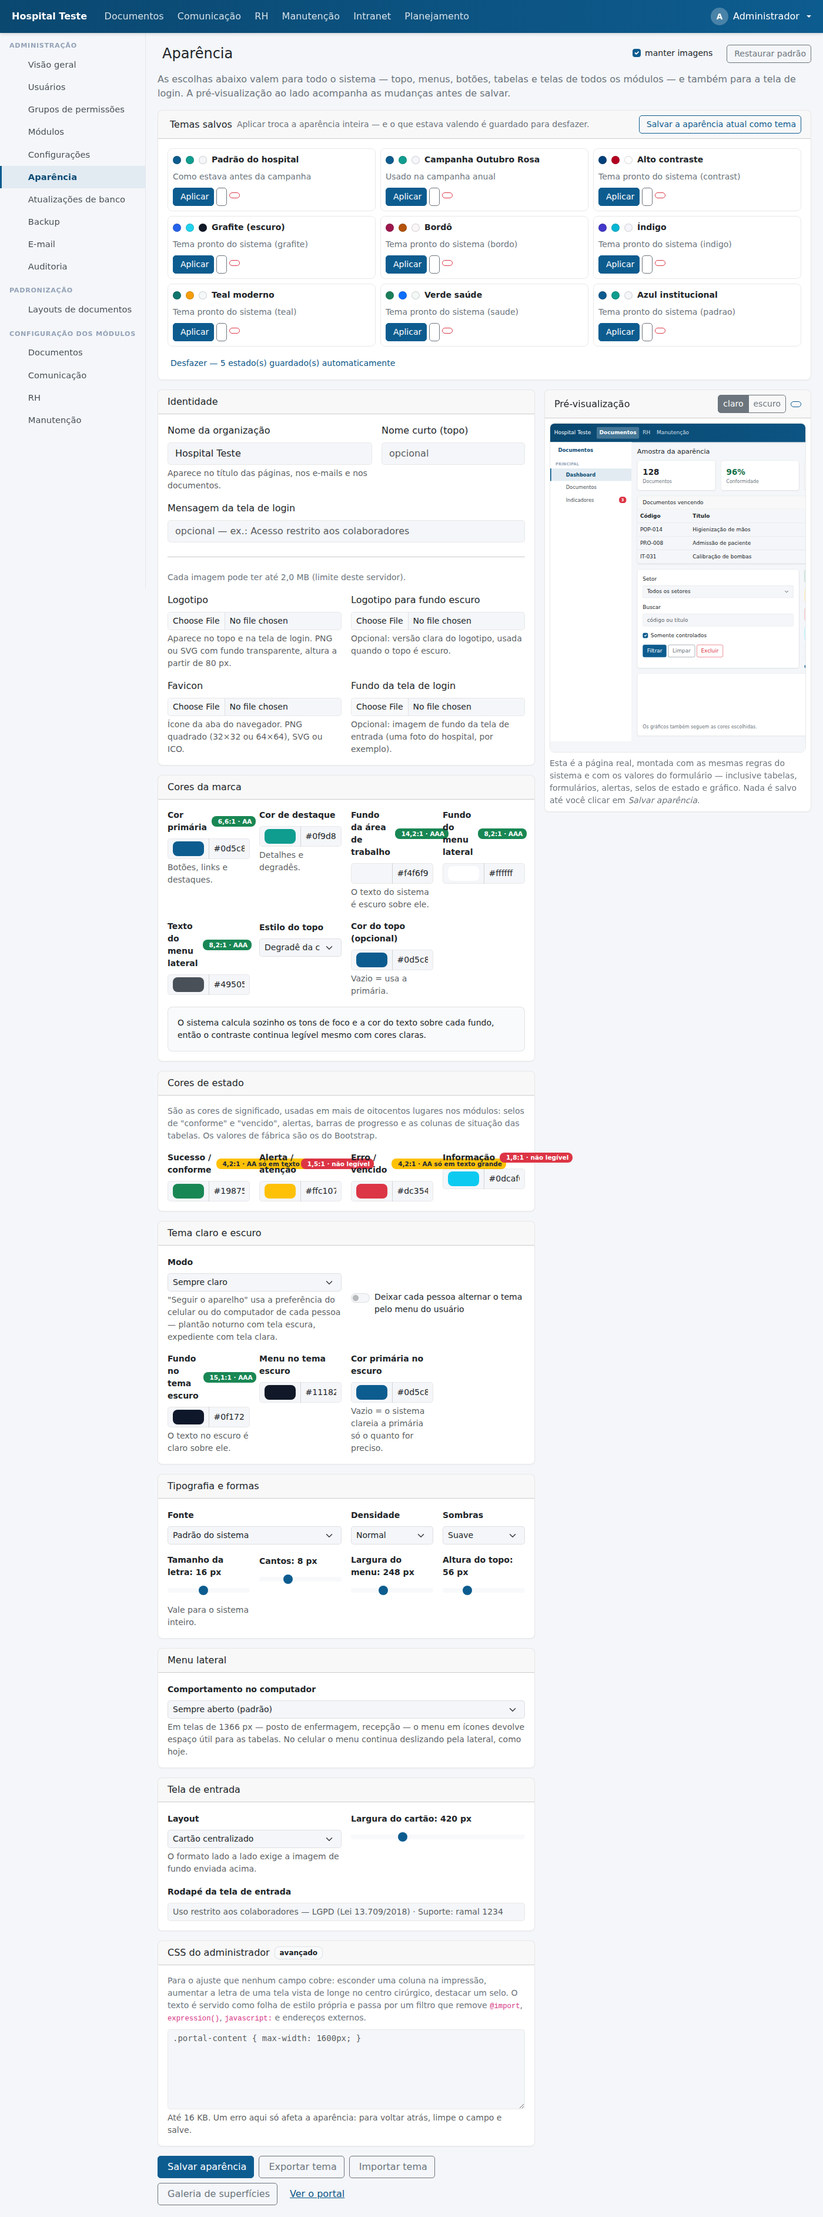
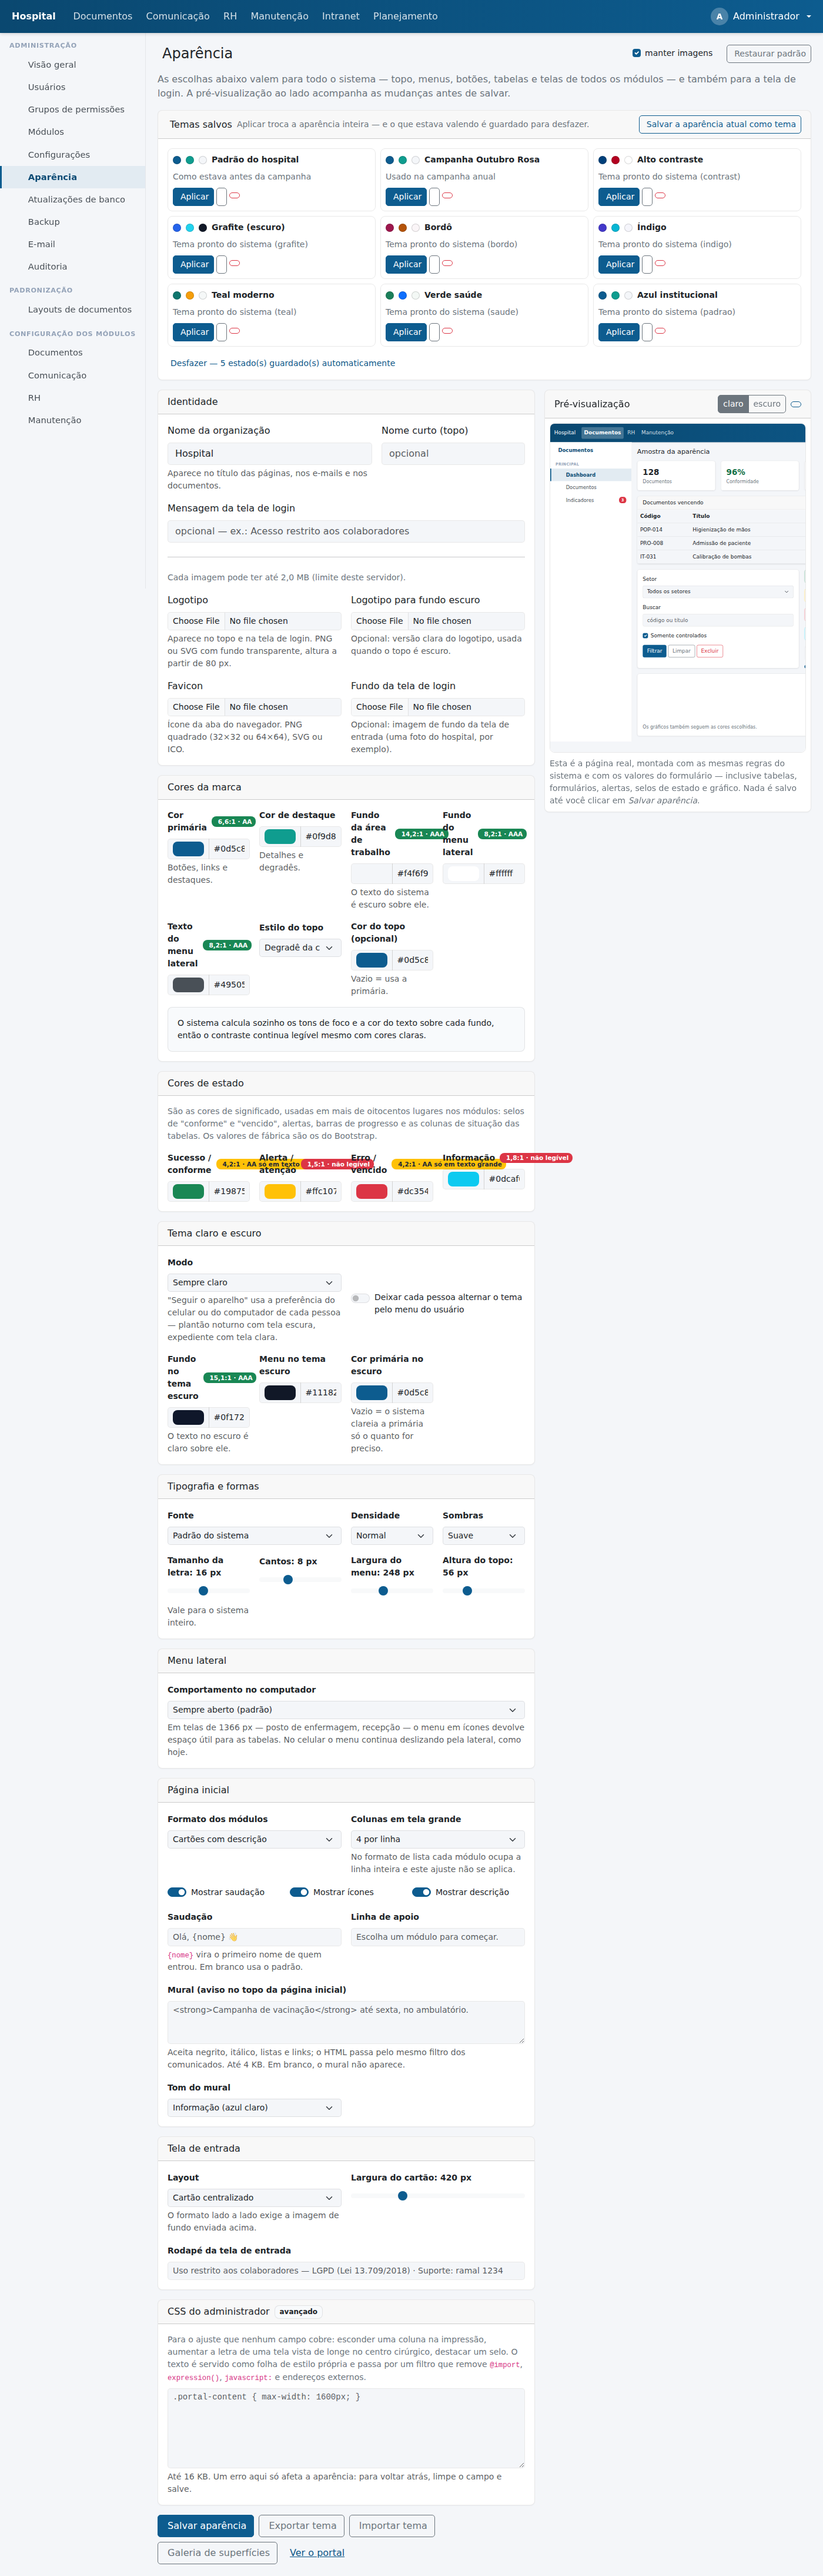
Página inicial personalizável (Aparência > Página inicial)
A tela que abre depois do login era a única do sistema sem nenhum ajuste:
saudação fixa e grade de cartões fixa, a mesma para a instalação de três
módulos e para a de quinze. Agora tem formato (cartões, lista compacta ou
mosaico de ícones), número de colunas, saudação e linha de apoio próprias
com {nome}, chaves para esconder ícones, descrição e saudação, e um mural
de aviso no topo com tom escolhido.

O mural aceita HTML — um aviso de campanha de vacinação sem negrito nem
link não é um aviso — e passa pelo mesmo HtmlSanitizer dos comunicados do
RH. Conferido na prática: <script> e onerror saem, <strong> e <a href>
ficam.

Duas coisas que o teste pegou e que valem registro:

- O seletor de colunas reabria sempre em "2 por linha". O PHP converte
  chave numérica de array em int, então o === contra o valor salvo (string)
  nunca casava e nenhuma option saía marcada — o valor gravava certo, só a
  tela mentia. Os outros seletores da aparência usam chave textual e não
  têm o problema.
- O teste visual acusou 100% de diferença sem nada ter mudado: um flash
  pendente ("Configurações salvas") era consumido pela primeira cena e
  somava uma barra de aviso de 74 px só à referência. O teste agora abre
  uma página neutra antes de fotografar; três execuções seguidas dão
  0,00%.

Verificado: os três formatos e os quatro valores de coluna fecham o ciclo
salvar → reabrir → renderizar; as três chaves de esconder funcionam.
[…]

Changed region(s): [[0.0, 0.0, 0.9829, 0.9315], [0.1843, 0.9626, 0.5221, 0.9936], [0.6757, 0.3416, 0.86, 0.3726]]

diff --git a/assets/core/app.css b/assets/core/app.css
@@ -402,7 +402,23 @@ body.portal-bare:not(.is-split) .portal-bare-footer { color: rgba(255, 255, 255,
     display: flex; align-items: center; justify-content: center;
     font-size: 1.5rem; color: var(--portal-on-primary);
     background: linear-gradient(135deg, var(--portal-primary), var(--portal-accent));
+    flex: 0 0 auto;
 }
+
+/* Formatos da página inicial (Administração > Aparência > Página inicial).
+   A lista troca o cartão alto por uma linha; o mosaico vira ícone grande com
+   o nome embaixo — útil em instalação com muitos módulos ou em tela tocável,
+   onde a grade de cartões obriga a rolar. */
+.portal-home-lista .module-icon { width: 38px; height: 38px; font-size: 1.1rem; }
+.portal-home-lista:hover { transform: none; }
+
+.portal-home-mosaico .module-icon { width: 60px; height: 60px; font-size: 1.75rem; }
+.portal-home-mosaico .card-body { min-height: 128px; }
+
+/* Mural: o HTML vem do administrador, então as margens do último parágrafo
+   são zeradas para o aviso não ganhar um vão embaixo. */
+.portal-home-mural > :last-child { margin-bottom: 0; }
+.portal-home-mural img { max-width: 100%; height: auto; }
 
 /* ============================================================
    Bootstrap seguindo a identidade visual

diff --git a/core/controllers/auth.php b/core/controllers/auth.php
@@ -420,41 +420,96 @@ function core_auth_render_portal(): void
 {
     $user    = Auth::user();
     $modules = Modules::forUser((int) $user['id']);
+    $b       = Core\Branding::all();
+
+    $primeiro = explode(' ', trim((string) $user['name']))[0];
+    // {nome} no texto do administrador. O padrão continua sendo o de antes,
+    // para quem nunca abrir a tela de Aparência.
+    $titulo = $b['home_title'] !== ''
+        ? str_replace(['{nome}', '{primeiro_nome}'], [$user['name'], $primeiro], $b['home_title'])
+        : 'Olá, ' . $primeiro . ' 👋';
+    $subtitulo = $b['home_subtitle'] !== '' ? $b['home_subtitle'] : 'Escolha um módulo para começar.';
+
+    $layout   = $b['home_layout'];
+    $colunas  = (int) $b['home_columns'];
+    $comDesc  = $b['home_show_desc'] === '1';
+    $comIcone = $b['home_show_icons'] === '1';
+    // 12 / colunas fecha certo porque HOME_COLUMNS só aceita divisores de 12.
+    $colClass = $layout === 'lista'
+        ? 'col-12'
+        : 'col-12 col-sm-6 col-lg-' . (int) (12 / max(1, $colunas));
+
+    $tons = [
+        'info'    => 'alert-info',    'primary' => 'alert-primary',
+        'success' => 'alert-success', 'warning' => 'alert-warning',
+        'neutro'  => 'alert-secondary',
+    ];
+
+    // Um item do portal (módulo ou link externo) nos três formatos.
+    $cartao = static function (string $href, string $icone, string $nome, string $desc,
+                               bool $externo = false) use ($layout, $comDesc, $comIcone): string {
+        $alvo = $externo ? ' target="_blank" rel="noopener"' : '';
+        $ico  = $comIcone
+            ? '<div class="module-icon"><i class="bi ' . core_e($icone) . '"></i></div>' : '';
+        $fora = $externo ? ' <i class="bi bi-box-arrow-up-right small"></i>' : '';
+
+        if ($layout === 'mosaico') {
+            return '<a class="card portal-module-card portal-home-mosaico h-100" href="' . $href . '"' . $alvo . '>'
+                 . '<div class="card-body text-center d-flex flex-column gap-2 align-items-center justify-content-center">'
+                 . $ico . '<div class="fw-semibold text-body small">' . core_e($nome) . $fora . '</div>'
+                 . '</div></a>';
+        }
+        if ($layout === 'lista') {
+            return '<a class="card portal-module-card portal-home-lista" href="' . $href . '"' . $alvo . '>'
+                 . '<div class="card-body d-flex align-items-center gap-3 py-2">'
+                 . $ico
+                 . '<div class="flex-grow-1 min-w-0">'
+                 . '<div class="fw-semibold text-body">' . core_e($nome) . $fora . '</div>'
+                 . ($comDesc && $desc !== '' ? '<div class="small text-muted text-truncate">' . core_e($desc) . '</div>' : '')
+                 . '</div><i class="bi bi-chevron-right text-muted small"></i>'
+                 . '</div></a>';
+        }
+        return '<a class="card portal-module-card h-100" href="' . $href . '"' . $alvo . '>'
+             . '<div class="card-body d-flex flex-column gap-3">'
+             . $ico
+             . '<div><div class="fw-semibold text-body">' . core_e($nome) . $fora . '</div>'
+             . ($comDesc && $desc !== '' ? '<div class="small text-muted">' . core_e($desc) . '</div>' : '')
+             . '</div></div></a>';
+    };
+
     ob_start(); ?>
-    <div class="mb-4">
-        <h1 class="h4 mb-1">Olá, <?= core_e(explode(' ', (string) $user['name'])[0]) ?> 👋</h1>
-        <p class="text-muted mb-0">Escolha um módulo para começar.</p>
-    </div>
+    <?php if ($b['home_greeting'] === '1'): ?>
+        <div class="mb-4">
+            <h1 class="h4 mb-1"><?= core_e($titulo) ?></h1>
+            <p class="text-muted mb-0"><?= core_e($subtitulo) ?></p>
+        </div>
+    <?php endif; ?>
+
+    <?php if (trim($b['home_message']) !== ''): ?>
+        <?php /* Já sanitizado na gravação (Branding::normalizeField). */ ?>
+        <div class="alert <?= $tons[$b['home_message_tone']] ?? 'alert-info' ?> portal-home-mural">
+            <?= $b['home_message'] ?>
+        </div>
+    <?php endif; ?>
+
     <?php if (!$modules): ?>
         <div class="alert alert-warning">
             Você ainda não tem acesso a nenhum módulo. Solicite a liberação ao administrador da plataforma.
         </div>
     <?php endif; ?>
-    <div class="row g-3">
+
+    <div class="row g-3 portal-home portal-home-<?= core_e($layout) ?>">
         <?php foreach ($modules as $slug => $m): ?>
-            <div class="col-12 col-sm-6 col-lg-4 col-xl-3">
-                <a class="card portal-module-card h-100" href="<?= core_module_url($slug) ?>">
-                    <div class="card-body d-flex flex-column gap-3">
-                        <div class="module-icon"><i class="bi <?= core_e($m['icon'] ?? 'bi-app') ?>"></i></div>
-                        <div>
-                            <div class="fw-semibold text-body"><?= core_e($m['name']) ?></div>
-                            <div class="small text-muted"><?= core_e($m['description'] ?? '') ?></div>
-                        </div>
-                    </div>
-                </a>
+            <div class="<?= $colClass ?>">
+                <?= $cartao(core_module_url($slug), (string) ($m['icon'] ?? 'bi-app'),
+                            (string) $m['name'], (string) ($m['description'] ?? '')) ?>
             </div>
         <?php endforeach; ?>
         <?php if (core_config('moodle.enabled')): ?>
-            <div class="col-12 col-sm-6 col-lg-4 col-xl-3">
-                <a class="card portal-module-card h-100" href="<?= core_e(core_config('moodle.url')) ?>" target="_blank" rel="noopener">
-                    <div class="card-body d-flex flex-column gap-3">
-                        <div class="module-icon"><i class="bi bi-mortarboard"></i></div>
-                        <div>
-                            <div class="fw-semibold text-body"><?= core_e(core_config('moodle.link_label', 'Moodle')) ?> <i class="bi bi-box-arrow-up-right small"></i></div>
-                            <div class="small text-muted">Plataforma de ensino a distância.</div>
-                        </div>
-                    </div>
-                </a>
+            <div class="<?= $colClass ?>">
+                <?= $cartao(core_e((string) core_config('moodle.url')), 'bi-mortarboard',
+                            (string) core_config('moodle.link_label', 'Moodle'),
+                            'Plataforma de ensino a distância.', true) ?>
             </div>
         <?php endif; ?>
     </div>

diff --git a/core/controllers/admin_appearance.php b/core/controllers/admin_appearance.php
@@ -646,6 +646,85 @@ function core_admin_appearance(): string
                 </div>
 
                 <div class="card mb-3">
+                    <div class="card-header">Página inicial</div>
+                    <div class="card-body row g-3">
+                        <div class="col-12 col-md-6">
+                            <label class="form-label small fw-semibold">Formato dos módulos</label>
+                            <select class="form-select form-select-sm" name="home_layout" id="f_home_layout">
+                                <?php foreach (Branding::HOME_LAYOUTS as $k => $lbl): ?>
+                                    <option value="<?= core_e($k) ?>" <?= $b['home_layout'] === $k ? 'selected' : '' ?>><?= core_e($lbl) ?></option>
+                                <?php endforeach; ?>
+                            </select>
+                        </div>
+                        <div class="col-12 col-md-6">
+                            <label class="form-label small fw-semibold">Colunas em tela grande</label>
+                            <select class="form-select form-select-sm" name="home_columns" id="f_home_columns">
+                                <?php // (string) obrigatório: o PHP converte chave numérica de array
+                                      // em int, e o === contra o valor salvo (string) nunca casaria —
+                                      // o campo reabriria sempre na primeira opção.
+                                      foreach (Branding::HOME_COLUMNS as $k => $lbl): ?>
+                                    <option value="<?= core_e((string) $k) ?>" <?= $b['home_columns'] === (string) $k ? 'selected' : '' ?>><?= core_e($lbl) ?></option>
+                                <?php endforeach; ?>
+                            </select>
+                            <div class="form-text small">No formato de lista cada módulo ocupa a linha inteira e este ajuste não se aplica.</div>
+                        </div>
+
+                        <div class="col-12 col-md-4">
+                            <input type="hidden" name="home_greeting" value="0">
+                            <div class="form-check form-switch">
+                                <input class="form-check-input" type="checkbox" role="switch" name="home_greeting"
+                                       id="f_home_greeting" value="1" <?= $b['home_greeting'] === '1' ? 'checked' : '' ?>>
+                                <label class="form-check-label small" for="f_home_greeting">Mostrar saudação</label>
+                            </div>
+                        </div>
+                        <div class="col-12 col-md-4">
+                            <input type="hidden" name="home_show_icons" value="0">
+                            <div class="form-check form-switch">
+                                <input class="form-check-input" type="checkbox" role="switch" name="home_show_icons"
+                                       id="f_home_show_icons" value="1" <?= $b['home_show_icons'] === '1' ? 'checked' : '' ?>>
+                                <label class="form-check-label small" for="f_home_show_icons">Mostrar ícones</label>
+                            </div>
+                        </div>
+                        <div class="col-12 col-md-4">
+                            <input type="hidden" name="home_show_desc" value="0">
+                            <div class="form-check form-switch">
+                                <input class="form-check-input" type="checkbox" role="switch" name="home_show_desc"
+                                       id="f_home_show_desc" value="1" <?= $b['home_show_desc'] === '1' ? 'checked' : '' ?>>
+                                <label class="form-check-label small" for="f_home_show_desc">Mostrar descrição</label>
+                            </div>
+                        </div>
+
+                        <div class="col-12 col-md-6">
+                            <label class="form-label small fw-semibold">Saudação</label>
+                            <input class="form-control form-control-sm" name="home_title" id="f_home_title" maxlength="120"
+                                   value="<?= core_e($b['home_title']) ?>" placeholder="Olá, {nome} 👋">
+                            <div class="form-text small"><code>{nome}</code> vira o primeiro nome de quem entrou. Em branco usa o padrão.</div>
+                        </div>
+                        <div class="col-12 col-md-6">
+                            <label class="form-label small fw-semibold">Linha de apoio</label>
+                            <input class="form-control form-control-sm" name="home_subtitle" id="f_home_subtitle" maxlength="200"
+                                   value="<?= core_e($b['home_subtitle']) ?>" placeholder="Escolha um módulo para começar.">
+                        </div>
+
+                        <div class="col-12">
+                            <label class="form-label small fw-semibold">Mural (aviso no topo da página inicial)</label>
+                            <textarea class="form-control form-control-sm" name="home_message" id="f_home_message" rows="3"
+                                      placeholder="&lt;strong&gt;Campanha de vacinação&lt;/strong&gt; até sexta, no ambulatório."><?= core_e($b['home_message']) ?></textarea>
+                            <div class="form-text small">Aceita negrito, itálico, listas e links; o HTML passa pelo mesmo
+                            filtro dos comunicados. Até 4 KB. Em branco, o mural não aparece.</div>
+                        </div>
+                        <div class="col-12 col-md-6">
+                            <label class="form-label small fw-semibold">Tom do mural</label>
+                            <select class="form-select form-select-sm" name="home_message_tone" id="f_home_message_tone">
+                                <?php foreach (Branding::HOME_TONES as $k => $lbl): ?>
+                                    <option value="<?= core_e($k) ?>" <?= $b['home_message_tone'] === $k ? 'selected' : '' ?>><?= core_e($lbl) ?></option>
+                                <?php endforeach; ?>
+                            </select>
+                        </div>
+                    </div>
+                </div>
+
+                <div class="card mb-3">
                     <div class="card-header">Tela de entrada</div>
                     <div class="card-body row g-3">
                         <div class="col-12 col-md-6">

diff --git a/core/src/Branding.php b/core/src/Branding.php
@@ -59,6 +59,19 @@ final class Branding
         'dark_sidebar_bg' => '#111827',
         'dark_primary'    => '',            // vazio → clareia a primária o quanto faltar
         // Tela de login
+        // Página inicial: o portal de módulos que abre depois do login. Era a
+        // única tela do sistema sem nenhum ajuste — texto fixo e uma grade de
+        // cartões fixa, para instalações de 3 e de 15 módulos igualmente.
+        'home_greeting'     => '1',            // mostrar a saudação
+        'home_title'        => '',             // vazio → "Olá, {nome} 👋"
+        'home_subtitle'     => '',             // vazio → "Escolha um módulo para começar."
+        'home_layout'       => 'cartoes',      // cartoes | lista | mosaico
+        'home_columns'      => '4',            // 2 | 3 | 4 | 6 por linha
+        'home_show_desc'    => '1',
+        'home_show_icons'   => '1',
+        'home_message'      => '',             // mural em HTML (sanitizado)
+        'home_message_tone' => 'info',         // ver HOME_TONES
+
         'login_layout'    => 'centralizado', // centralizado | lado_a_lado
         'login_card_width' => '420',        // px
         'login_footer'    => '',
@@ -102,6 +115,28 @@ final class Branding
         'claro'  => 'Sempre claro',
         'escuro' => 'Sempre escuro',
         'auto'   => 'Seguir o aparelho de cada pessoa',
+    ];
+
+    /** Formatos da página inicial. */
+    public const HOME_LAYOUTS = [
+        'cartoes' => 'Cartões com descrição',
+        'lista'   => 'Lista compacta (uma linha por módulo)',
+        'mosaico' => 'Mosaico de ícones grandes',
+    ];
+
+    /** Colunas possíveis: só divisores de 12, para a grade fechar certo. */
+    public const HOME_COLUMNS = [
+        '2' => '2 por linha', '3' => '3 por linha',
+        '4' => '4 por linha', '6' => '6 por linha',
+    ];
+
+    /** Tom do mural da página inicial. */
+    public const HOME_TONES = [
+        'info'    => 'Informação (azul claro)',
+        'primary' => 'Cor da marca',
+        'success' => 'Positivo (verde)',
+        'warning' => 'Atenção (amarelo)',
+        'neutro'  => 'Neutro (cinza)',
     ];
 
     public const LOGIN_LAYOUTS = [
@@ -845,10 +880,14 @@ final class Branding
             'sidebar_mode'     => isset(self::SIDEBAR_MODES[$raw]) ? $raw : $atual,
             'theme_mode'       => isset(self::THEME_MODES[$raw]) ? $raw : $atual,
             'login_layout'     => isset(self::LOGIN_LAYOUTS[$raw]) ? $raw : $atual,
+            'home_layout'      => isset(self::HOME_LAYOUTS[$raw]) ? $raw : $atual,
+            'home_columns'     => isset(self::HOME_COLUMNS[$raw]) ? $raw : $atual,
+            'home_message_tone' => isset(self::HOME_TONES[$raw]) ? $raw : $atual,
             // Booleanos gravam sempre '0' ou '1': um checkbox desmarcado não é
             // enviado pelo navegador, então o formulário manda um campo oculto
             // antes dele e a chave sempre chega.
             'theme_toggle'     => $raw === '1' ? '1' : '0',
+            'home_greeting', 'home_show_desc', 'home_show_icons' => $raw === '1' ? '1' : '0',
             'radius'           => (string) max(0, min(24, (int) $raw)),
             'sidebar_width'    => (string) max(180, min(360, (int) $raw)),
             'topbar_height'    => (string) max(44, min(88, (int) $raw)),
@@ -857,6 +896,12 @@ final class Branding
             'name', 'short_name' => mb_substr($raw, 0, 120),
             'login_message'    => mb_substr($raw, 0, 300),
             'login_footer'     => mb_substr($raw, 0, 400),
+            'home_title'       => mb_substr($raw, 0, 120),
+            'home_subtitle'    => mb_substr($raw, 0, 200),
+            // Mural: HTML de verdade (negrito, link, lista), passado pelo mesmo
+            // filtro dos comunicados — quem escreve aqui é administrador, mas
+            // administrador também cola conteúdo de fora.
+            'home_message'     => HtmlSanitizer::clean(mb_substr($raw, 0, 4000)),
             // O corte é avisado pela tela (core_admin_appearance_save compara o
             // tamanho recebido) e cai na última chave de fechamento, para não
             // deixar um seletor pela metade — que faz o navegador descartar

diff --git a/README.md b/README.md
@@ -391,6 +391,25 @@ favicon e cores próprios; o que ficar em branco herda do portal. São poucas
 chaves de propósito: quem circula entre as unidades precisa reconhecer o
 mesmo sistema. Em instalação de unidade única a sobreposição é inerte.
 
+### Página inicial
+
+A tela que abre depois do login era a única sem nenhum ajuste: uma saudação
+fixa e uma grade de cartões fixa, igual para a instalação de três módulos e
+para a de quinze. *Administração › Aparência › Página inicial* abriu:
+
+| Ajuste | Para quê |
+| --- | --- |
+| **Formato**: cartões, lista compacta ou mosaico de ícones | Com muitos módulos a grade de cartões obriga a rolar; a lista cabe numa tela só, e o mosaico funciona melhor em tela tocável |
+| **Colunas** (2, 3, 4 ou 6) | Só divisores de 12, para a grade fechar certo |
+| **Saudação** e **linha de apoio** | `{nome}` vira o primeiro nome de quem entrou; em branco, o texto padrão |
+| **Mostrar ícones / descrição / saudação** | Cada um desligável |
+| **Mural** | Aviso no topo, em HTML (negrito, listas, links), com o tom escolhido |
+
+O mural aceita HTML porque um aviso de campanha de vacinação sem negrito
+nem link não é um aviso — mas passa pelo mesmo filtro dos comunicados do
+RH (`HtmlSanitizer`), que remove `<script>` e atributos de evento. Em
+branco, o mural não aparece.
+
 ### Galeria de superfícies e CSS livre
 
 *Administração › Aparência › Galeria de superfícies* mostra todas as peças
